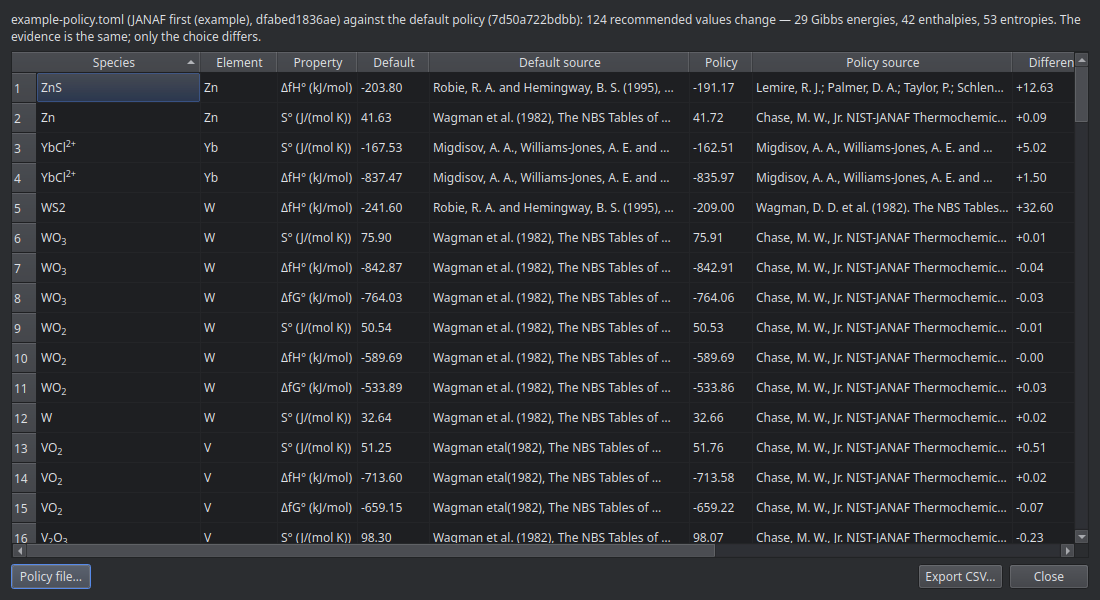
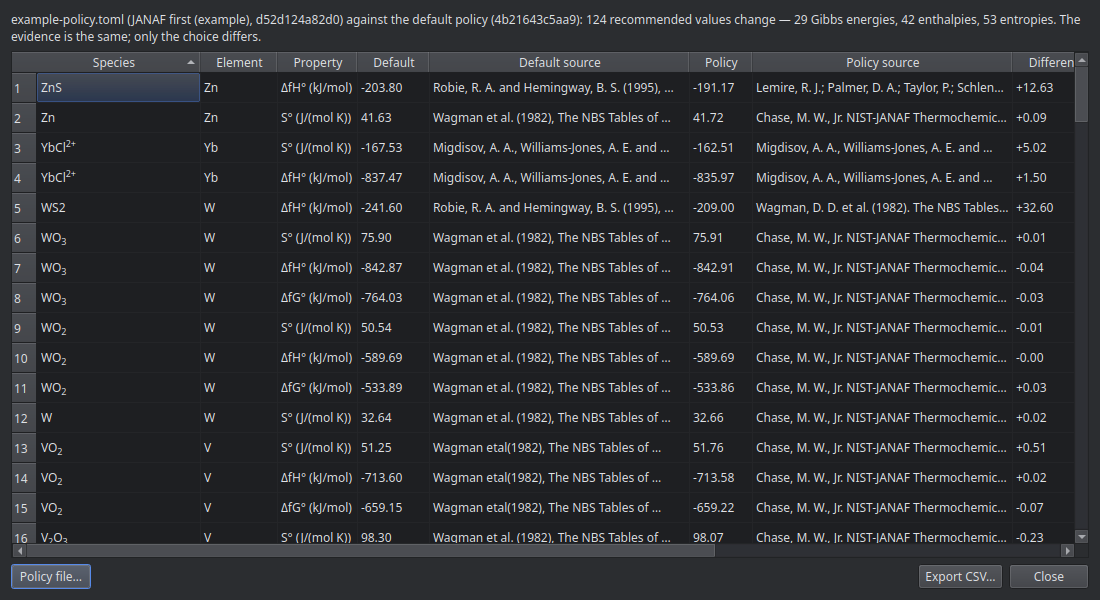
Define accepted for entropies and retake the policy-comparison screenshots
Elemental absolute entropies taken from a compilation without a separate check
now carry the accepted status, so the data dictionary and the selection page
define it for formation enthalpies and absolute entropies. The policy
comparison screenshots show the example policy without the removed CODATA and
NIST WebBook families.

Changed region(s): [[0.2473, 0.0, 0.7109, 0.06], [0.7418, 0.03, 0.9891, 0.06]]

diff --git a/docs/data/selection.md b/docs/data/selection.md
@@ -13,7 +13,7 @@ a species, stored with its source, the place in the source, any reported uncerta
 |---|---|
 | verified | Checked against the stated location in the cited source |
 | source-verified estimate | A published estimate, correlation or derived value; its basis was checked against the source |
-| accepted | A formation enthalpy taken from a compilation without the same level of checking |
+| accepted | A formation enthalpy or absolute entropy taken from a compilation without the same level of checking |
 | defined reference state | A value fixed by convention, such as ΔfG° = 0 for an element in its standard state |
 | superseded source value | Replaced by a later edition or erratum of the same source; kept, but never selected |
 | terminal evidence gap | A search that found no defensible value for that species and property |

diff --git a/docs/DATA_DICTIONARY.md b/docs/DATA_DICTIONARY.md
@@ -236,7 +236,8 @@ These holds carry the original values and source locations for later review.
   enthalpy whose source locator and warning describe the derivation and reference properties.
 - `terminal_evidence_gap`: the source investigation did not establish a defensible value for the
   exact species, phase, and reference state.
-- `accepted`: an admitted formation enthalpy.
+- `accepted`: a formation enthalpy or an absolute entropy taken from a published compilation without a
+  separate check against the cited table.
 - `not_available`: no admitted value is present for the property.
 
 The file stores evidence only. `reported_thermochemistry` holds every reported value with its
